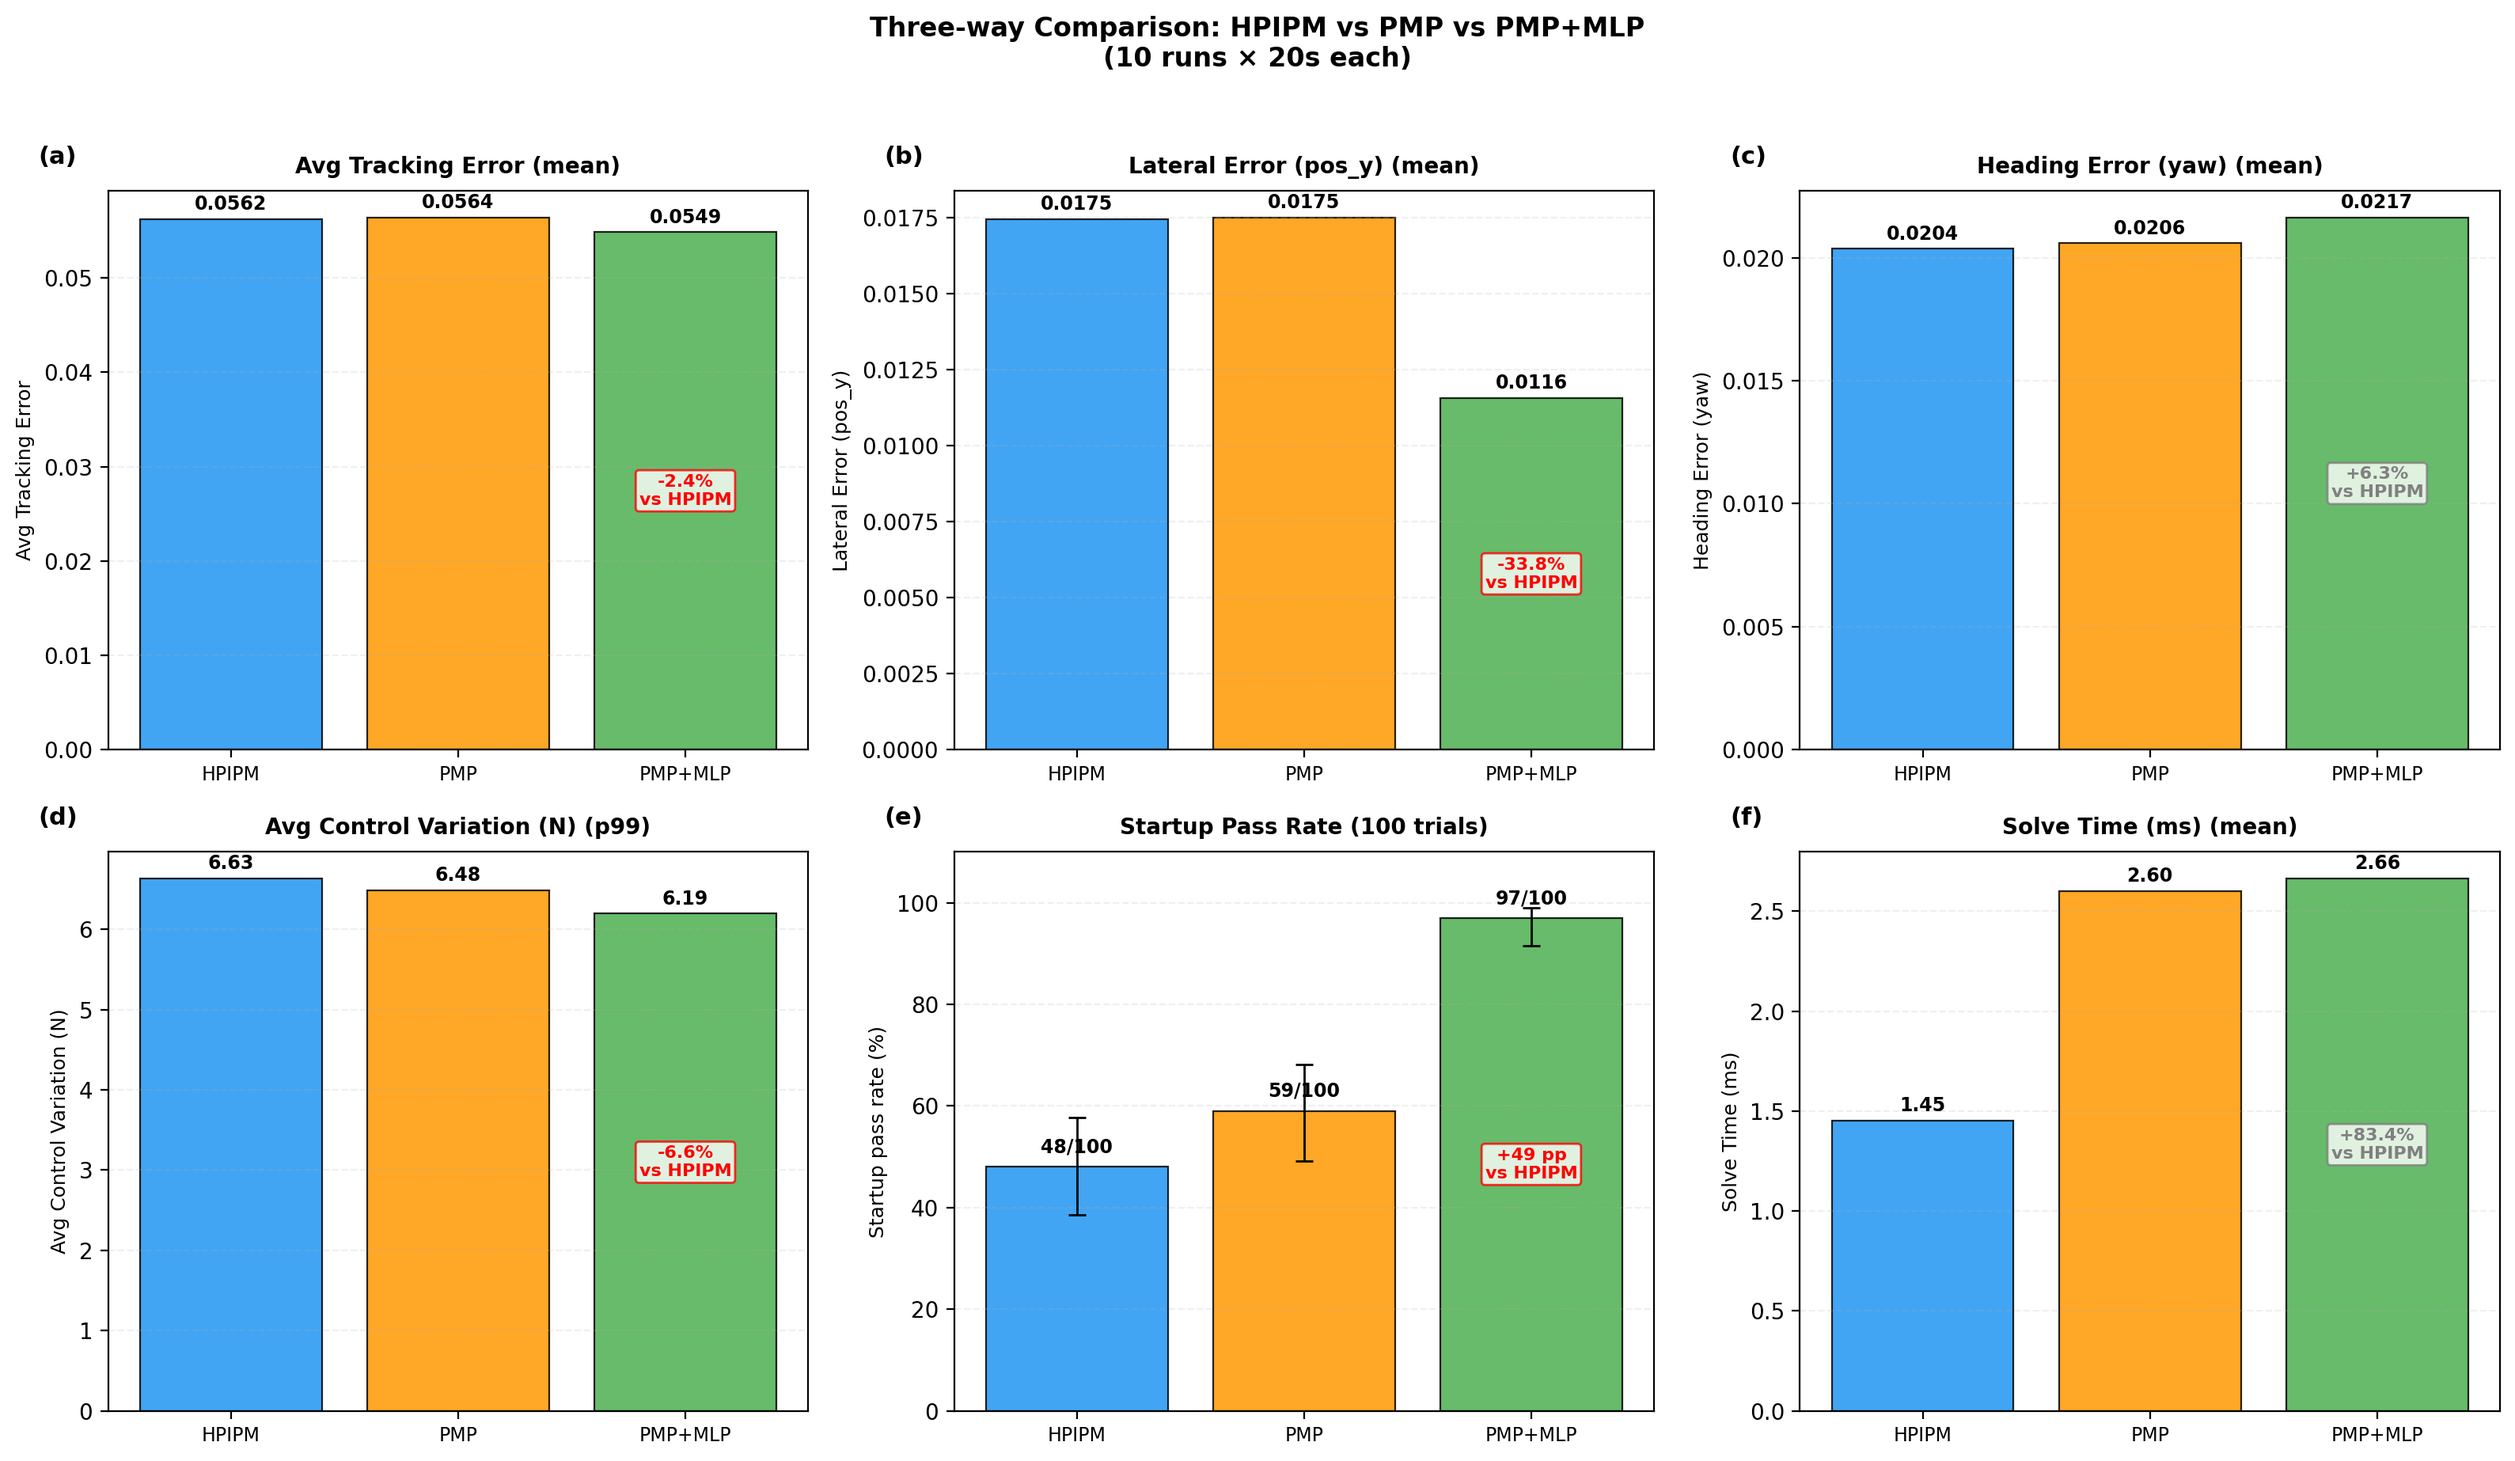
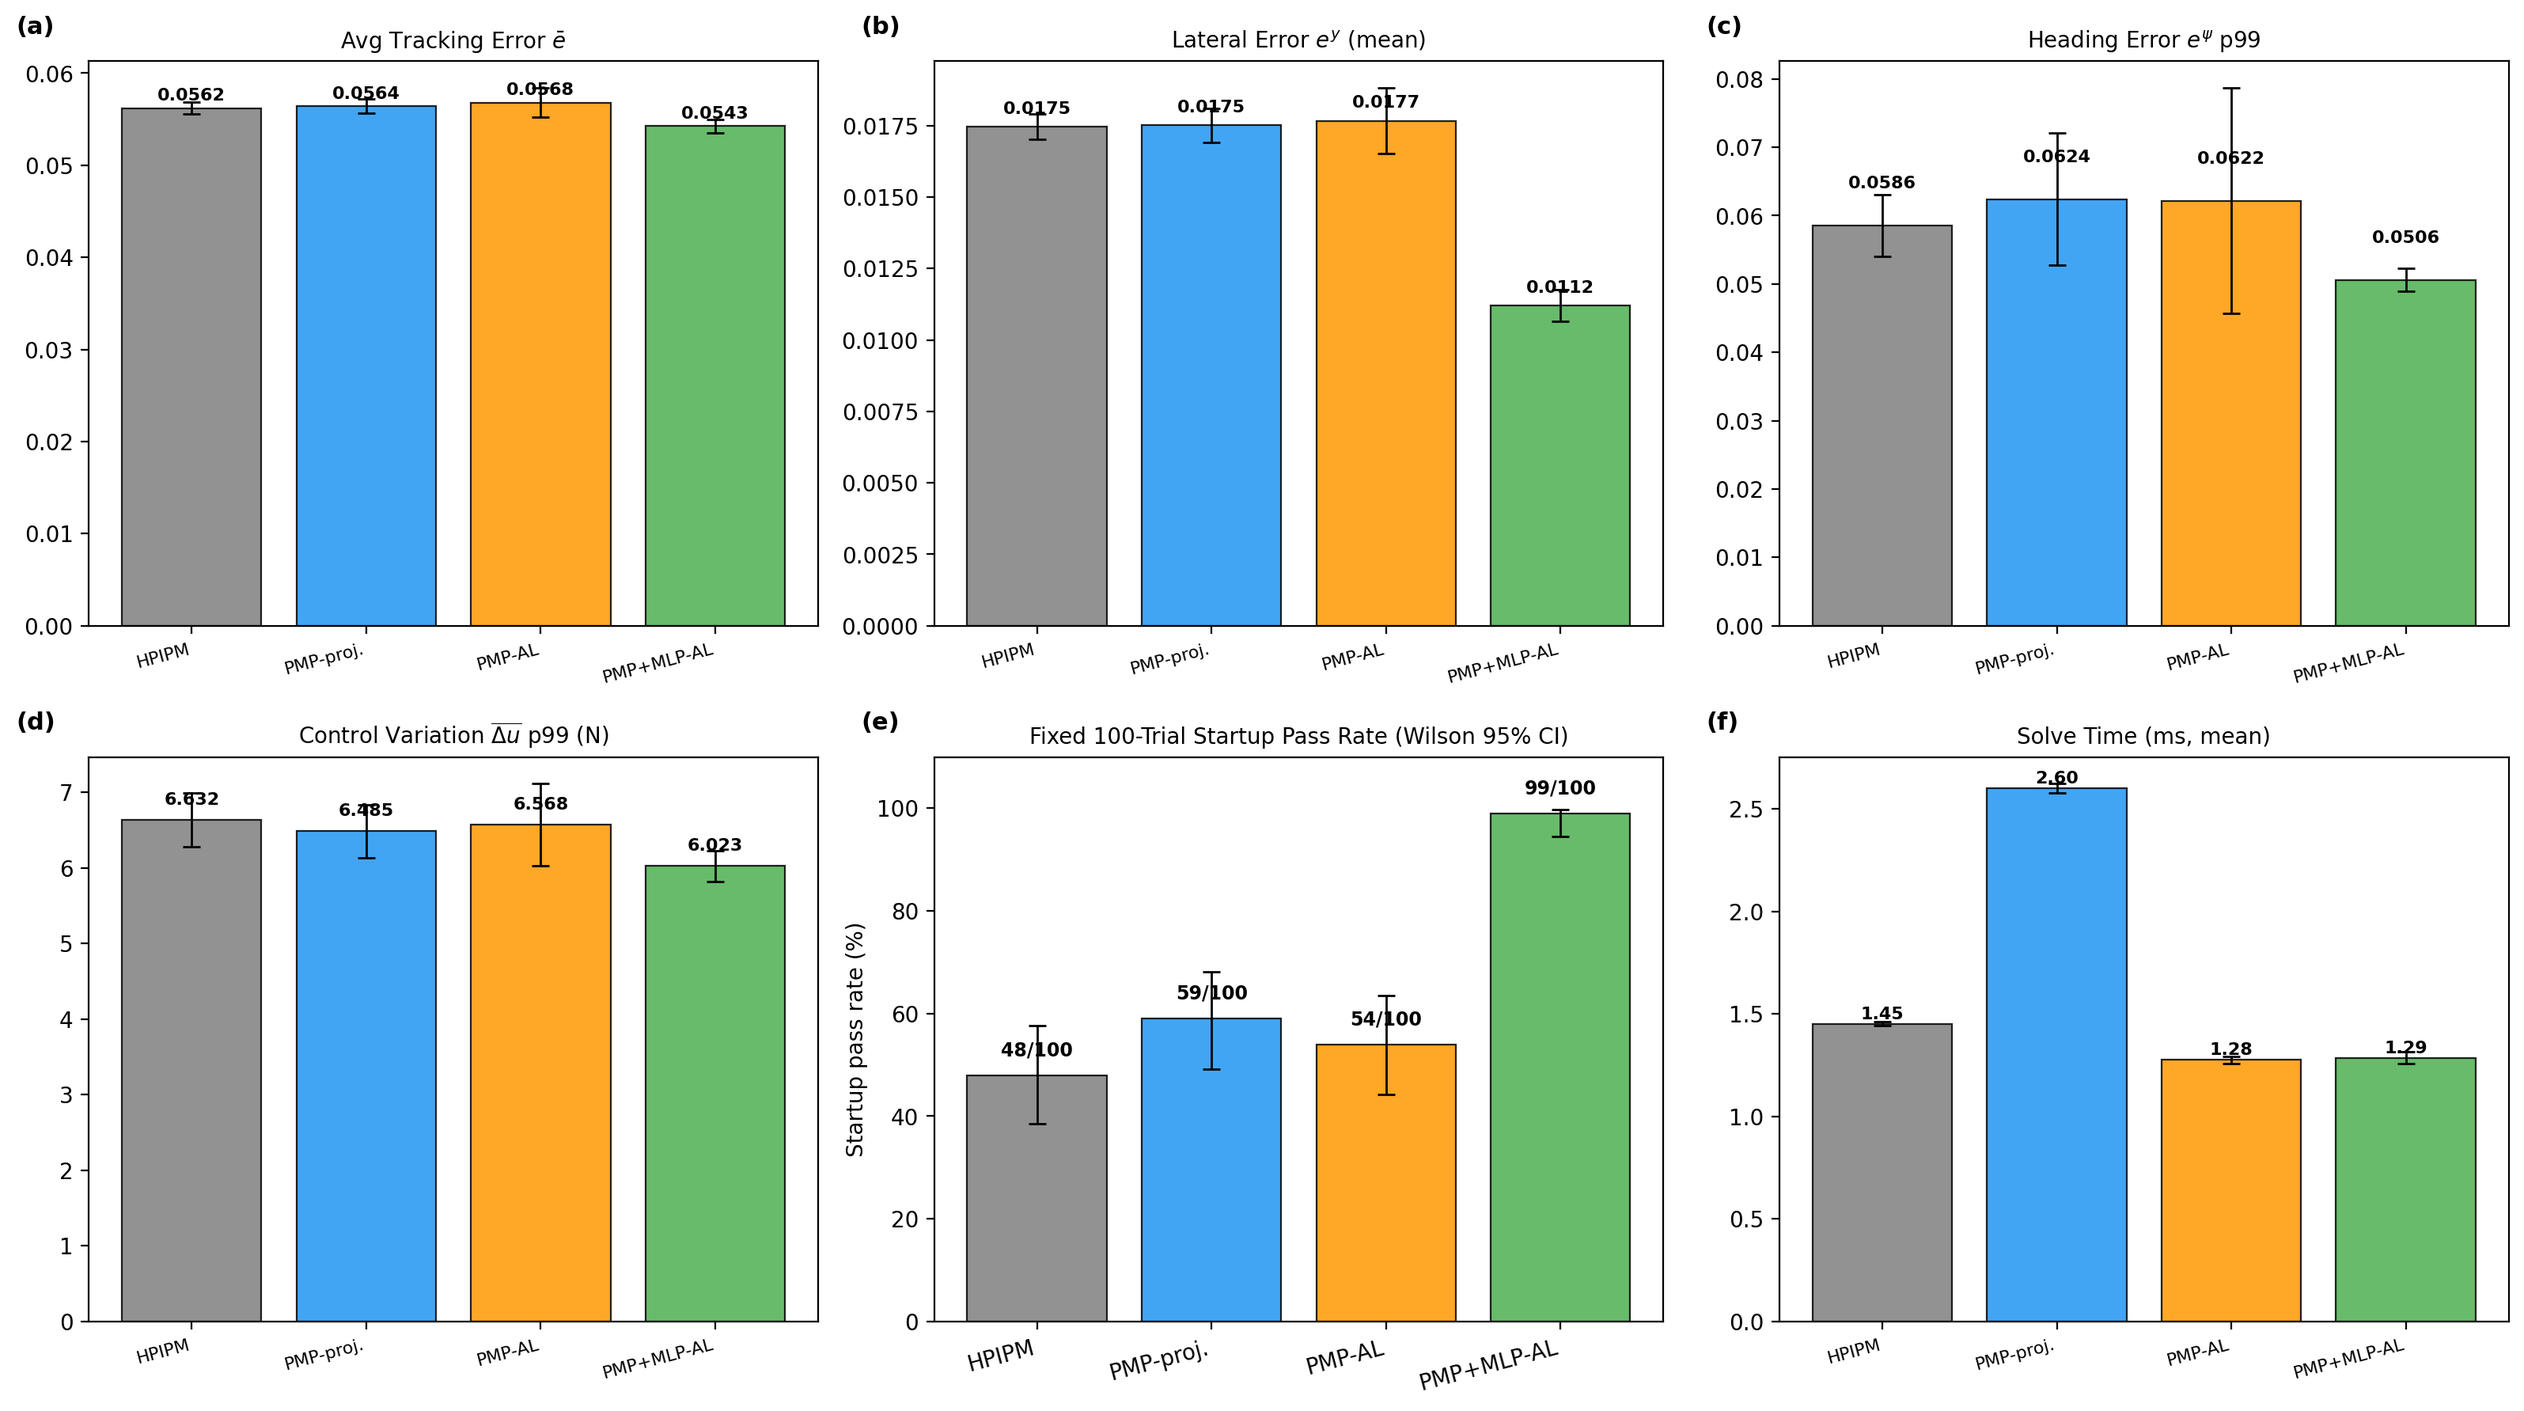
B3-AL B-plan: 4-controller Fig 2 repaint + analysis script
- analysis_0512_4ctrl.py: 4-controller comparison generator (HPIPM/PMP-proj/PMP-AL/PMP+MLP-AL)
  * Panel(c) uses e_psi p99 (matches Table I)
  * Panel(d) uses pooled p99 (matches Table I)
  * No suptitle, no +51pp annotation
- img/fixed_summary_6panel.png: updated 4-controller figure
- gitignore: eval/ + MUJOCO_LOG.TXT

diff --git a/analysis_0512_4ctrl.py b/analysis_0512_4ctrl.py
@@ -1,0 +1,172 @@
+#!/usr/bin/env python3
+"""
+2026-05-12 4-controller comparison: HPIPM / PMP-proj. / PMP-AL / PMP+MLP-AL
+- HPIPM: 10 trials (Bipedal_MPC eval 509_1..509_5 + 510_1..510_5)
+- PMP-proj: 10 trials (My_MPC eval 509_1..510_6 PMP-only with AL=false)
+- PMP-AL: 54 valid trials from 100 attempts (My_MPC eval, AL on)
+- PMP+MLP-AL: 9 valid trials from 10 (MPC_ML eval 511_29..511_37 minus trial 9)
+Outputs: img/fixed_summary_6panel.png (4-controller version)
+"""
+import pandas as pd, numpy as np, csv, glob
+import matplotlib.pyplot as plt
+from pathlib import Path
+
+# ─── HPIPM 10 trials (legacy, no AL effect) ───
+HPIPM_CSVS = [
+    *[f"/home/markwcl/Bipedal_MPC/eval/509_{i}/hpipm_eval_result.csv" for i in [1,2,3,4,5]],
+    *[f"/home/markwcl/Bipedal_MPC/eval/510_{i}/hpipm_eval_result.csv" for i in [1,2,3,4,5]],
+]
+
+# ─── PMP-proj. 10 trials (My_MPC, no AL) ───
+PMPPROJ_CSVS = [
+    *[f"/home/markwcl/My_MPC/eval/509_{i}/pmp_eval_result.csv" for i in [1,2,3,4]],
+    *[f"/home/markwcl/My_MPC/eval/510_{i}/pmp_eval_result.csv" for i in [1,2,3,4,5,6]],
+]
+
+# ─── PMP-AL 54 valid trials (from 100-trial verify summary) ───
+def load_pmp_al_valid():
+    summary = sorted(glob.glob("/home/markwcl/MPC_ML/eval/pmp_al_100trial_verify/summary_*.csv"))[-1]
+    csvs = []
+    with open(summary) as f:
+        for r in csv.DictReader(f):
+            if r["pass"]=="True" and r["csv"]:
+                csvs.append(r["csv"])
+    return csvs
+PMPAL_CSVS = load_pmp_al_valid()
+print(f"PMP-AL valid CSVs loaded: {len(PMPAL_CSVS)}")
+
+# ─── PMP+MLP-AL 9 valid trials (al_day5_10trial except trial 9 launch fail) ───
+PMPMLAL_CSVS = [
+    *[f"/home/markwcl/MPC_ML/eval/511_{i}/pmp_ml_eval_result.csv" for i in [29,30,31,32,33,34,35,36,37]],
+]
+
+OUT_DIR = Path("/home/markwcl/MPC_ML/img")
+OUT_DIR.mkdir(parents=True, exist_ok=True)
+
+LABELS = ["HPIPM", "PMP-proj.", "PMP-AL", "PMP+MLP-AL"]
+ALL_CSVS = [HPIPM_CSVS, PMPPROJ_CSVS, PMPAL_CSVS, PMPMLAL_CSVS]
+# Colorblind-safe: gray / blue / orange / green
+COLORS = ["#7F7F7F", "#2196F3", "#FF9800", "#4CAF50"]
+
+plt.rcParams.update({'font.size': 10, 'axes.grid': False, 'figure.dpi': 150})
+
+def load_runs(csv_list):
+    out = []
+    for p in csv_list:
+        try:
+            df = pd.read_csv(p)
+            df["t"] = df["timestamp"] - df["timestamp"].iloc[0]
+            out.append(df)
+        except Exception as e:
+            print(f"  WARN: skip {p}: {e}")
+    return out
+
+all_data = {}
+for lab, csvs in zip(LABELS, ALL_CSVS):
+    runs = load_runs(csvs)
+    all_data[lab] = runs
+    print(f"  {lab}: loaded {len(runs)} runs")
+
+# ─── per-controller per-trial stat aggregators ───
+def trial_mean(df, col): return df[col].mean()
+def trial_p99(df, col):  return df[col].quantile(0.99)
+def trial_p90(df, col):  return df[col].quantile(0.90)
+
+# stat over trials of a controller given a callable trial_stat(df)->scalar
+def trial_pooled_p99(runs, col):
+    """Pooled p99 across all timeseries (matches paper Table I)."""
+    import pandas as pd
+    return float(pd.concat([r[col] for r in runs]).quantile(0.99)), 0.0
+
+def ctrl_summary(runs, fn):
+    vals = [fn(r) for r in runs]
+    return np.mean(vals), np.std(vals)
+
+# ─── 6-panel grid ───
+fig, axes = plt.subplots(2, 3, figsize=(16, 9))
+# fig.suptitle dropped per round 10 audit
+
+bar_metrics = [
+    ("avg_tracking_error", r"Avg Tracking Error $\bar{e}$", "mean", ".4f"),
+    ("err_pos_y",          r"Lateral Error $e^y$ (mean)", "mean", ".4f"),
+    ("err_yaw",            r"Heading Error $e^\psi$ p99", "p99", ".4f"),
+    ("avg_delta_u",        r"Control Variation $\overline{\Delta u}$ p99 (N)", "pooled_p99", ".3f"),
+    None,  # panel (e): startup pass rate
+    ("solve_time_ms",      "Solve Time (ms, mean)", "mean", ".2f"),
+]
+
+# Startup pass: 100-trial counts
+startup_counts_arr = [48, 59, 54, 99]
+startup_n = 100
+startup_rates = np.array(startup_counts_arr, dtype=float)
+startup_counts_str = [f"{c}/{startup_n}" for c in startup_counts_arr]
+# Wilson 95% CI from binomial counts
+def wilson(k, n, z=1.96):
+    p = k/n; denom = 1 + z*z/n
+    centre = (p + z*z/(2*n)) / denom
+    half = z * ((p*(1-p)/n + z*z/(4*n*n))**0.5) / denom
+    return 100*(centre-half), 100*(centre+half)
+ci = [wilson(k, startup_n) for k in startup_counts_arr]
+startup_ci_low  = np.array([c[0] for c in ci])
+startup_ci_high = np.array([c[1] for c in ci])
+startup_yerr = np.vstack([startup_rates - startup_ci_low, startup_ci_high - startup_rates])
+
+for panel_idx, (ax, metric) in enumerate(zip(axes.flat, bar_metrics)):
+    panel_letter = chr(ord("a") + panel_idx)
+    ax.text(-0.10, 1.04, f"({panel_letter})", transform=ax.transAxes,
+            fontsize=11, fontweight="bold", va="bottom", ha="left")
+    if metric is None:
+        bars = ax.bar(LABELS, startup_rates, color=COLORS, alpha=0.85,
+                      edgecolor="black", linewidth=0.8,
+                      yerr=startup_yerr, capsize=4,
+                      error_kw=dict(linewidth=1.0, capthick=1.0))
+        for bar, lab in zip(bars, startup_counts_str):
+            ax.text(bar.get_x() + bar.get_width()/2,
+                    bar.get_height() + 3.0, lab,
+                    ha="center", va="bottom", fontsize=8.5, fontweight="bold")
+        ax.set_ylabel("Startup pass rate (%)")
+        ax.set_title("Fixed 100-Trial Startup Pass Rate (Wilson 95% CI)",
+                     fontsize=10)
+        ax.set_ylim(0, 110)
+        # +51 pp annotation dropped per round 10 audit (less promotional)
+        continue
+
+    col, title, stat, fmt = metric
+    means, stds = [], []
+    if stat == "pooled_p99":
+        for lab in LABELS:
+            m, _ = trial_pooled_p99(all_data[lab], col)
+            # std across per-run values of the same pooled-equiv stat (run-level p99)
+            run_p99 = [r[col].quantile(0.99) for r in all_data[lab]]
+            means.append(m); stds.append(float(np.std(run_p99)))
+    else:
+        if stat=="mean":   fn = trial_mean
+        elif stat=="p99":  fn = trial_p99
+        elif stat=="p90":  fn = trial_p90
+        for lab in LABELS:
+            m, s = ctrl_summary(all_data[lab], lambda df, c=col: fn(df, c))
+            means.append(m); stds.append(s)
+    means = np.array(means); stds = np.array(stds)
+    bars = ax.bar(LABELS, means, color=COLORS, alpha=0.85,
+                  edgecolor="black", linewidth=0.8,
+                  yerr=stds, capsize=4,
+                  error_kw=dict(linewidth=1.0, capthick=1.0))
+    for bar, val in zip(bars, means):
+        ax.text(bar.get_x() + bar.get_width()/2,
+                bar.get_height() + (stds.max()*0.3 if stds.max()>0 else means.max()*0.02),
+                f"{val:{fmt}}",
+                ha="center", va="bottom", fontsize=8, fontweight="bold")
+    ax.set_title(title, fontsize=10)
+    ax.tick_params(axis='x', labelsize=8)
+
+# rotate xtick labels for legibility (PMP-proj./PMP+MLP-AL are long)
+for ax in axes.flat:
+    for tick in ax.get_xticklabels():
+        tick.set_rotation(15); tick.set_ha("right")
+
+plt.tight_layout()
+out = OUT_DIR / "fixed_summary_6panel.png"
+plt.savefig(out, dpi=200, bbox_inches="tight")
+print(f"[saved] {out}")
+plt.close()
+print("DONE")
